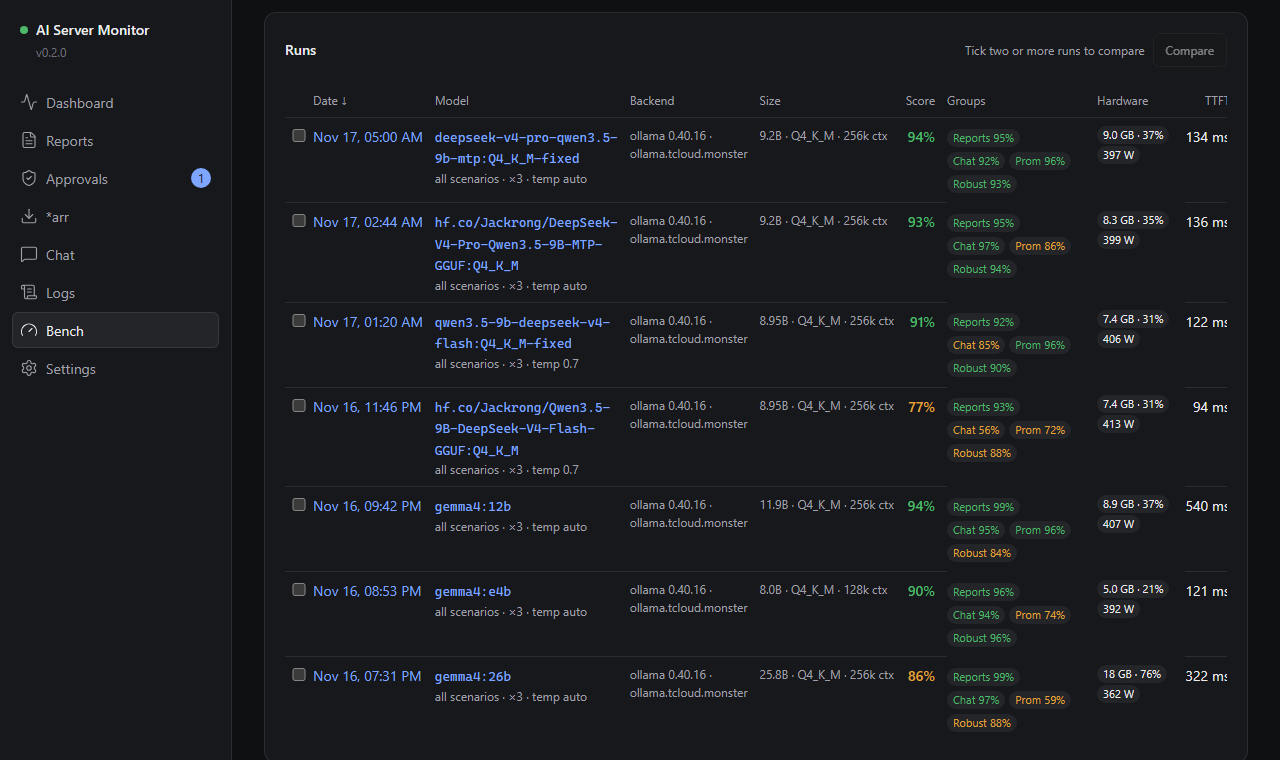
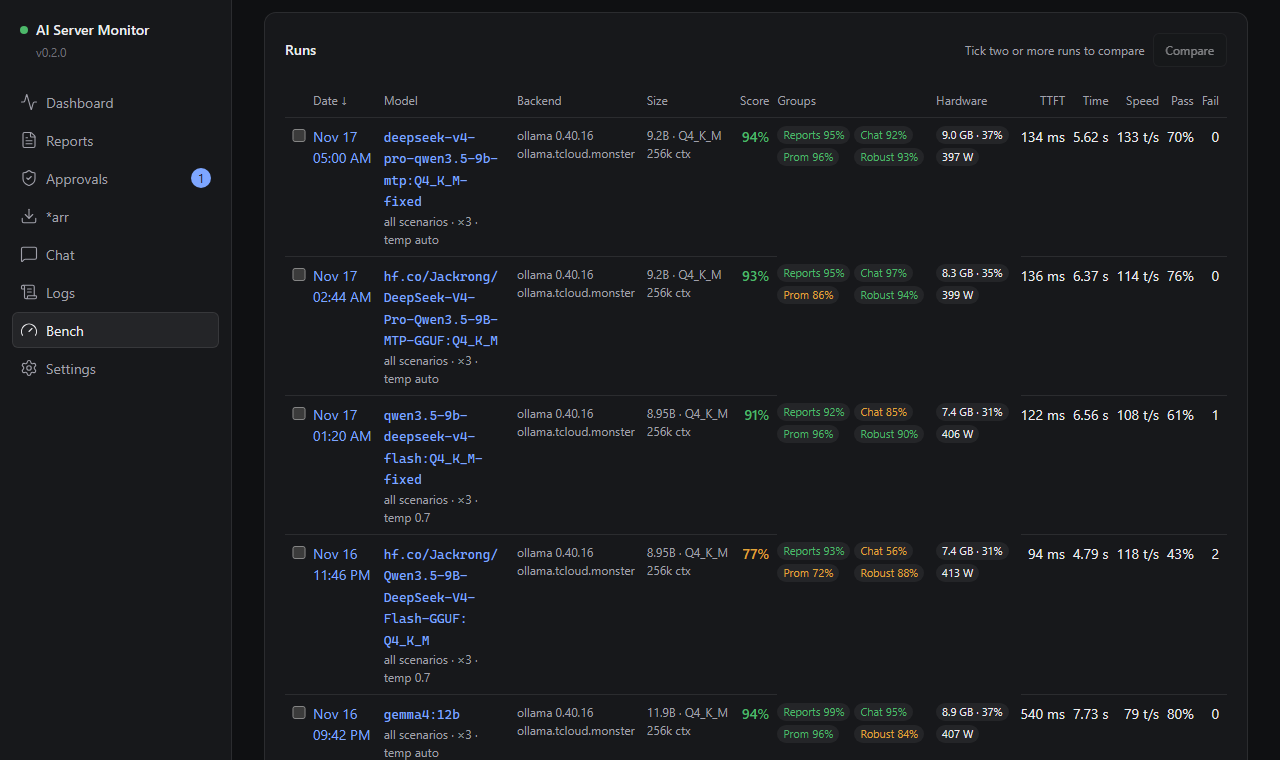
Benchmarks: runs list fits at 1280 with the sidebar; Hardware chips laid out like Groups
Tighter cell padding, Date as day over time, Backend as kind over host, Size as make over
context, model names may wrap after / . : -, Groups two by two, Hardware chips one above
the other with the same gap. The phone card layout is unchanged.

diff --git a/frontend/src/pages/bench/RunsTable.tsx b/frontend/src/pages/bench/RunsTable.tsx
@@ -1,4 +1,4 @@
-import { useMemo, useState } from "react";
+import { Fragment, useMemo, useState } from "react";
 import { Badge, Empty, Panel } from "../../ui";
 import { vramStat, hwScopeOf } from "./Hardware";
 import { GROUP_SHORT, backendLabel, gbOf, ms, score, scoreLevel, shortDate, sizeLabel, statusLevel, tps, watts } from "./format";
@@ -33,6 +33,39 @@ const value = (r: Run, key: SortKey): number | string | null => {
   }
 };
 
+/** Text that may wrap (in the table, not on a phone) after "/", ".", ":" and "-" (a long model name would otherwise fix the column width). */
+const breakable = (text: string) =>
+  text.split(/(?<=[/.:-])/).map((part, i) => (
+    <Fragment key={i}>
+      {i > 0 && <span className="bp" />}
+      {part}
+    </Fragment>
+  ));
+
+/** Parts that sit on one line on a phone and one above the other in the table (it keeps the columns narrow). */
+const Lines = ({ parts, sep = " · " }: { parts: string[]; sep?: string }) => (
+  <>
+    {parts.map((p, i) => (
+      <Fragment key={i}>
+        {i > 0 && <span className="stack-sep">{sep}</span>}
+        <span className="stack">{p}</span>
+      </Fragment>
+    ))}
+  </>
+);
+
+/** "Nov 17, 05:00 AM" as day over time. */
+const dateParts = (ts: number): string[] => {
+  const [day, ...time] = shortDate(ts).split(", ");
+  return time.length ? [day, time.join(", ")] : [day];
+};
+
+/** "8.95B · Q4_K_M · 256k ctx" as two lines: the model's make, then its context. */
+const sizeParts = (r: Run): string[] => {
+  const parts = sizeLabel(r).split(" · ");
+  return parts.length > 2 ? [parts.slice(0, 2).join(" · "), parts.slice(2).join(" · ")] : parts;
+};
+
 function HardwareCell({ run }: { run: Run }) {
   const c = hardwareCost(run);
   if (!c) {
@@ -41,10 +74,10 @@ function HardwareCell({ run }: { run: Run }) {
     return <td data-label="Hardware" className="group-chips hw-cell"><span className="muted" title={why}>—</span></td>;
   }
   return (
-    <td data-label="Hardware" className="group-chips hw-cell">
+    <td data-label="Hardware" className="group-chips hw-cell"><div className="chip-grid chip-col">
       {c.vram && <span className="chip" title={c.whole ? "VRAM, peak (whole GPU: no model process was recognised)" : "VRAM held by the model's process, peak · share of the card"}>{c.vram.text}</span>}
       {c.power && <span className="chip" title="GPU power draw, average over the run">{c.power}</span>}
-    </td>
+    </div></td>
   );
 }
 
@@ -112,25 +145,27 @@ export function RunsTable({ runs, selected, onSelect }: { runs: Run[]; selected:
                     <input type="checkbox" checked={selected.includes(r.id)} onChange={() => toggle(r.id)} aria-label={`Compare run ${r.id}`} />
                   </td>
                   <td data-label="Date" className="nowrap">
-                    <a href={`#/bench/run/${r.id}`}>{shortDate(r.started)}</a>
+                    <a href={`#/bench/run/${r.id}`}><Lines parts={dateParts(r.started)} sep=", " /></a>
                     {r.status !== "done" && <span className="block"><Badge level={statusLevel(r.status)}>{r.status}</Badge></span>}
                   </td>
                   <td data-label="Model" className="run-model">
-                    <a href={`#/bench/run/${r.id}`} className="mono">{r.model ?? "—"}</a>
+                    <a href={`#/bench/run/${r.id}`} className="mono">{breakable(r.model ?? "—")}</a>
                     <span className="block muted small">
                       {r.scope === "all" ? "all scenarios" : r.scope.replace("group:", "")} · ×{r.repeats}
                       {r.temperature !== null && r.temperature !== undefined ? ` · temp ${r.temperature}` : ""}
                     </span>
                   </td>
-                  <td data-label="Backend" className="muted small">{backendLabel(r)}</td>
-                  <td data-label="Size" className="muted small nowrap">{sizeLabel(r)}</td>
+                  <td data-label="Backend" className="muted small"><Lines parts={backendLabel(r).split(" · ")} /></td>
+                  <td data-label="Size" className="muted small"><Lines parts={sizeParts(r)} /></td>
                   <td data-label="Score" className="num"><span className={`score score-${scoreLevel(r.overall)}`}>{score(r.overall)}</span></td>
                   <td data-label="Groups" className="group-chips">
-                    {Object.entries(r.group_scores ?? {}).map(([g, s]) => (
-                      <span key={g} className={`chip chip-${scoreLevel(s)}`} title={`${GROUP_SHORT[g] ?? g}: ${score(s)}`}>
-                        {GROUP_SHORT[g] ?? g} {score(s)}
-                      </span>
-                    ))}
+                    <div className="chip-grid">
+                      {Object.entries(r.group_scores ?? {}).map(([g, s]) => (
+                        <span key={g} className={`chip chip-${scoreLevel(s)}`} title={`${GROUP_SHORT[g] ?? g}: ${score(s)}`}>
+                          {GROUP_SHORT[g] ?? g} {score(s)}
+                        </span>
+                      ))}
+                    </div>
                   </td>
                   <HardwareCell run={r} />
                   <td data-label="TTFT" className="num">{ms(r.summary?.median_ttft_ms)}</td>

diff --git a/frontend/src/pages/bench/bench.css b/frontend/src/pages/bench/bench.css
@@ -45,9 +45,18 @@
 .run-model { min-width: 160px; }
 .group-chips { display: flex; flex-wrap: wrap; gap: 4px; min-width: 150px; border-bottom: 0 !important; }
 .runs-table td.group-chips { display: table-cell; }
-/* Hardware cell: neutral chips (lower is better, no pass/fail line), one above the other to keep the column narrow */
-.runs-table td.hw-cell { min-width: 0; }
-.runs-table td.hw-cell .chip { display: block; width: fit-content; }
+/* The runs list has to fit next to the sidebar at 1280: tight cell padding, chips in a grid (Groups two by two,
+   Hardware one above the other), and cells that stack their parts. The phone layout turns all of it back. */
+.runs-table th, .runs-table td { padding-right: 8px; }
+.runs-table .num { padding-right: 8px; }
+.runs-table td.group-chips { min-width: 0; }
+.runs-table .run-model { min-width: 130px; }
+.runs-table .chip-grid { display: grid; grid-template-columns: auto auto; justify-content: start; justify-items: start; gap: 4px; }
+.runs-table .chip-grid.chip-col { grid-template-columns: auto; }
+.runs-table .chip-grid .chip { margin: 0; }
+.runs-table .stack { display: block; white-space: nowrap; }
+.runs-table .stack-sep { display: none; }
+.runs-table .bp::before { content: "\200b"; }
 .chip { display: inline-block; padding: 0 6px; margin: 0 4px 2px 0; border-radius: 10px; font-size: 11px; line-height: 18px; background: var(--hover); white-space: nowrap; }
 .chip-ok { color: var(--ok); }
 .chip-warn { color: var(--warn); }
@@ -172,7 +181,12 @@ span.cmp-best { padding: 0 4px; }
     content: attr(data-label); display: block; font-size: 11px; color: var(--muted); margin-bottom: 1px;
   }
   .runs-table td.group-chips { min-width: 0; }
-  .runs-table td.hw-cell .chip { display: inline-block; }
+  .runs-table .chip-grid, .runs-table .chip-grid.chip-col { display: block; }
+  .runs-table .chip-grid .chip { margin: 0 4px 2px 0; }
+  .runs-table .stack { display: inline; white-space: normal; }
+  .runs-table .stack-sep { display: inline; }
+  .runs-table .bp::before { content: none; }
+  .runs-table .run-model { min-width: 0; }
   .bench-detail .bench-table:not(.compare-table) td:first-child, .attempts-table td:first-child { grid-column: 1 / -1; }
   .bench-detail .bench-table:not(.compare-table) .num, .bench-table .num { text-align: left; padding-right: 0; }
   .bench-detail .score-bar { width: 100%; }
